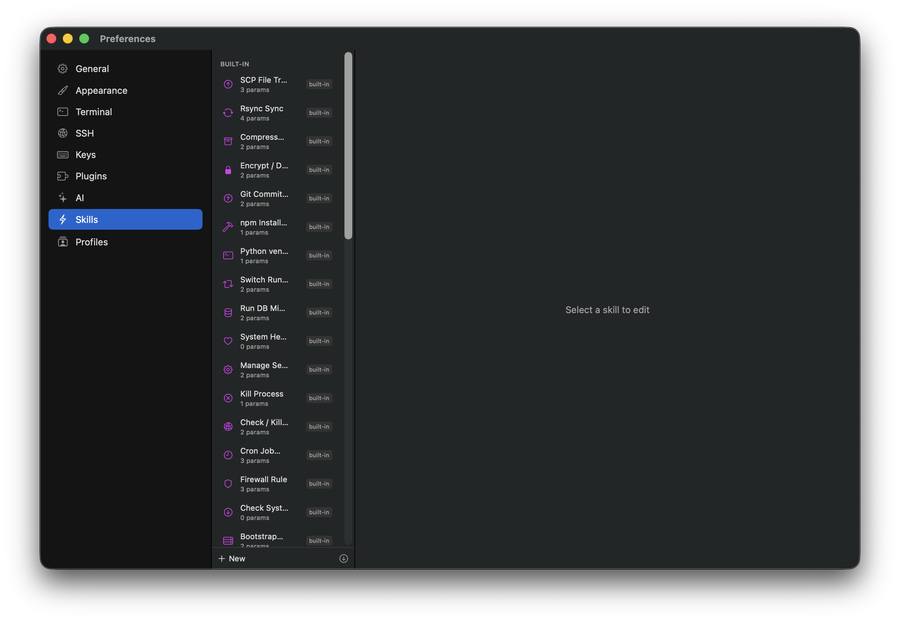
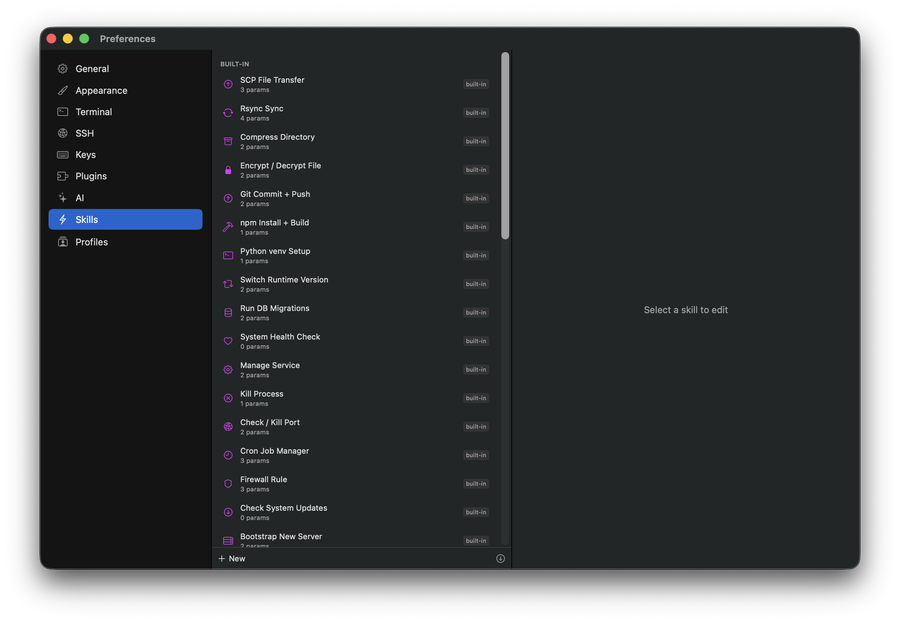
fix(prefs): make the Skills list column resizable and wider by default
The skill list was pinned to a fixed 200pt width inside the HSplitView, truncating names like 'Encrypt / Decrypt File' and 'Check System Updates'. Give it flexible bounds (min 200, ideal 260, max 420) so the divider can be dragged and names fit by default. Refresh the gallery screenshot.

diff --git a/Sources/Simpleton/Views/SkillsPreferencesTab.swift b/Sources/Simpleton/Views/SkillsPreferencesTab.swift
@@ -38,7 +38,7 @@ struct SkillsPreferencesTab: View {
                 }
                 .padding(8)
             }
-            .frame(width: 200)
+            .frame(minWidth: 200, idealWidth: 260, maxWidth: 420)
 
             // Right: editor — .id forces re-creation when selected skill changes
             Group {
